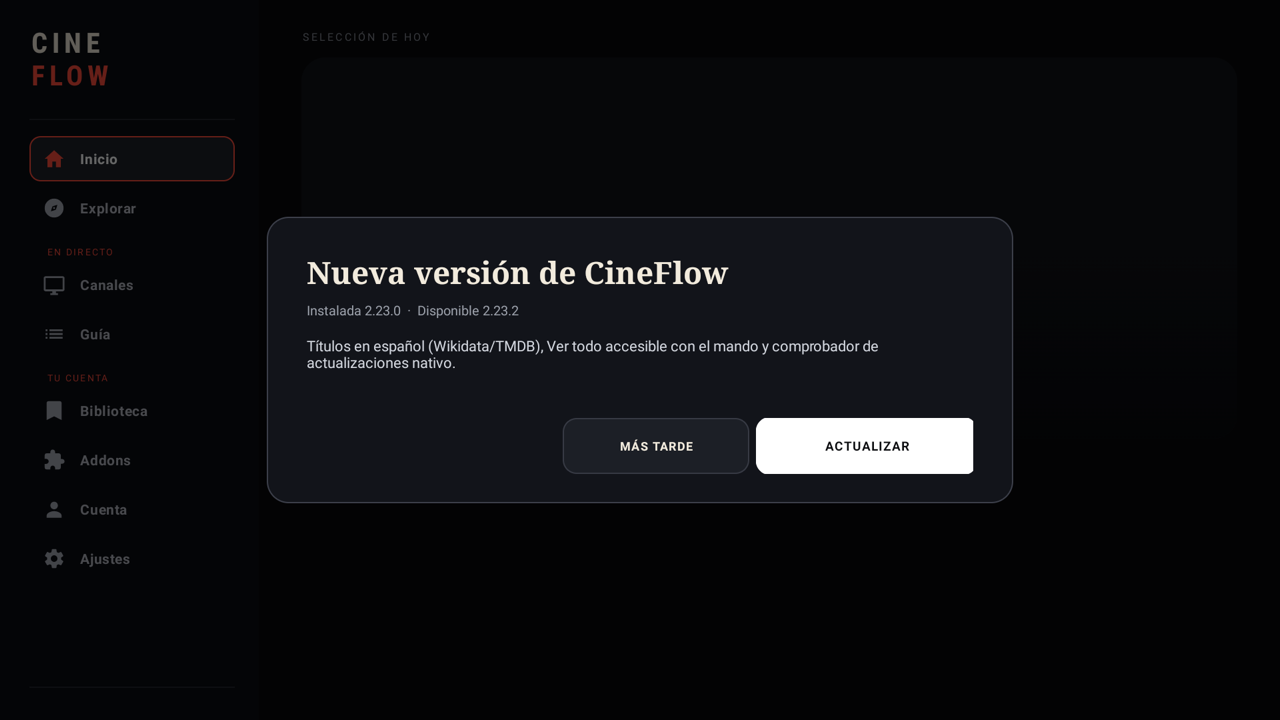
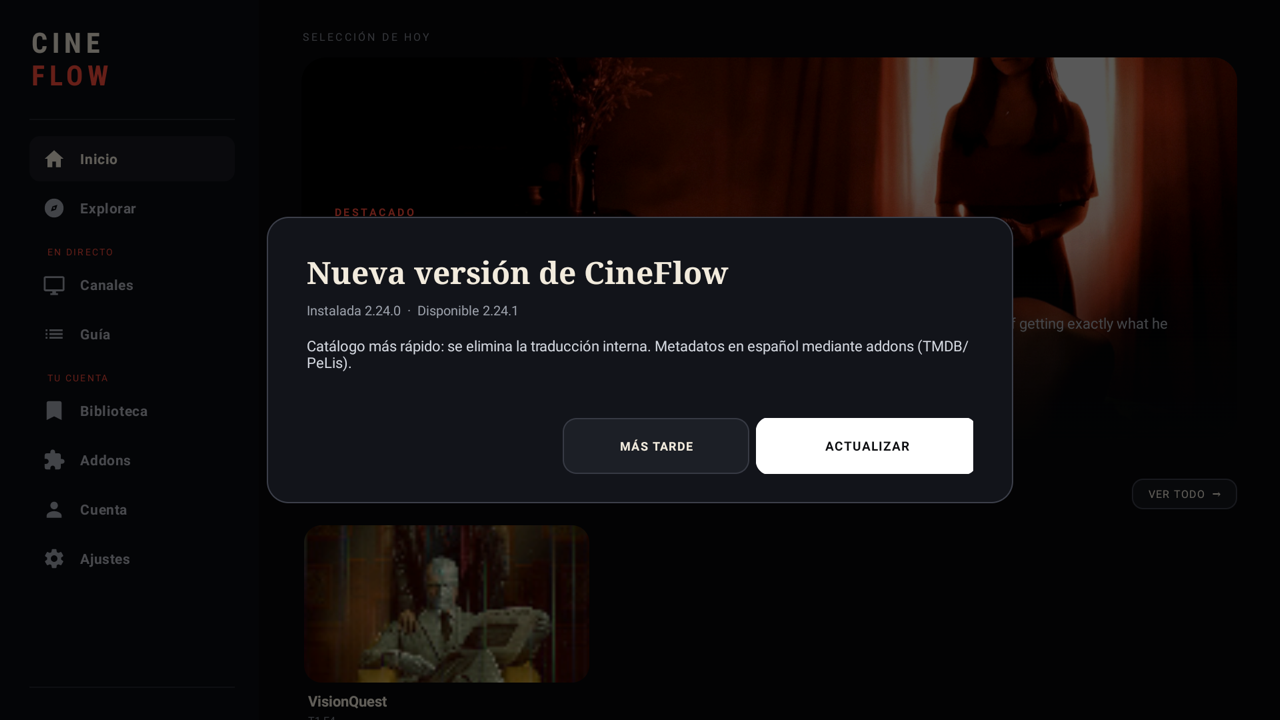
docs: refresh update screenshot

diff --git a/README.md b/README.md
@@ -93,12 +93,12 @@ La app no aloja contenido. Los catálogos, metadatos y proveedores vienen de los
     <td align="center"><img src="docs/screenshots/profiles.png" alt="Perfiles" width="420"><br><sub><b>Perfiles</b> · historial y ajustes separados</sub></td>
   </tr>
   <tr>
-    <td align="center"><img src="docs/screenshots/explore.png" alt="Explorar" width="420"><br><sub><b>Explorar</b> · cuadrícula y categorías</sub></td>
     <td align="center"><img src="docs/screenshots/continue-menu.png" alt="Continuar viendo" width="420"><br><sub><b>Continuar viendo</b> · quitar con MENÚ</sub></td>
+    <td align="center"><img src="docs/screenshots/update.png" alt="Actualización" width="420"><br><sub><b>Actualización</b> · desde GitHub</sub></td>
   </tr>
   <tr>
     <td align="center"><img src="docs/screenshots/settings.png" alt="Ajustes" width="420"><br><sub><b>Ajustes</b> · ajustes por perfil</sub></td>
-    <td align="center"><img src="docs/screenshots/update.png" alt="Actualización" width="420"><br><sub><b>Actualización</b> · desde GitHub</sub></td>
+    <td align="center"><img src="docs/screenshots/focus.png" alt="Foco" width="420"><br><sub><b>Navegación</b> · borde y sinopsis al enfocar</sub></td>
   </tr>
 </table>
 
